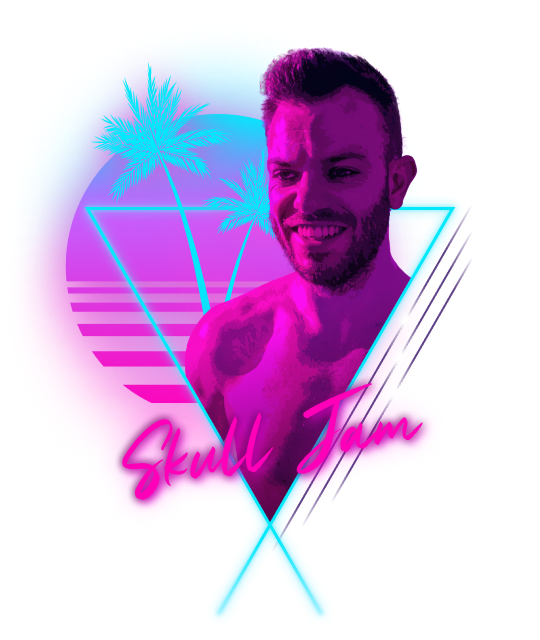
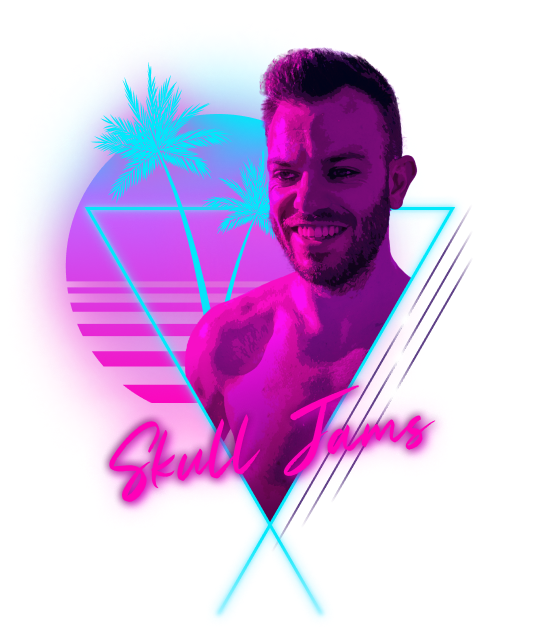
Trapest - fixed Skull Jams name

Changed region(s): [[0.1778, 0.5938, 0.8296, 0.8125]]

diff --git a/trappefest/2021/index.html b/trappefest/2021/index.html
@@ -117,7 +117,7 @@
             </button>
             <button type="button" data-bs-target="#carouselExampleIndicators" data-bs-slide-to="12" aria-label="Slide 12">
               <img src="img/artists/skulljam-thumbnail.png">
-              <h5>Skull Jam</h5>
+              <h5>Skull Jams</h5>
             </button>
             <button type="button" data-bs-target="#carouselExampleIndicators" data-bs-slide-to="13" aria-label="Slide 13">
               <img src="img/artists/wendyloo-thumbnail.png">
@@ -261,11 +261,11 @@
                 </div>
               </div>
             </div>
-            <!-- Skull Jam -->
+            <!-- Skull Jams -->
             <div class="carousel-item">
               <div class="row no-gutters align-items-center">
                 <div class="col-12 col-md-8">
-                  <img class="d-block w-100" src="img/artists/skulljam-portrait.png" alt="Skull Jam">
+                  <img class="d-block w-100" src="img/artists/skulljam-portrait.png" alt="Skull Jams">
                 </div>
                 <div class="col-12 col-md-4 order-md-first">
                   <p>He agreed to lose the e in his name to become Trappe's lead singer for "We are the Faya". A view as distorted as the guitars of his crazy pop-punk remix set.</p>
